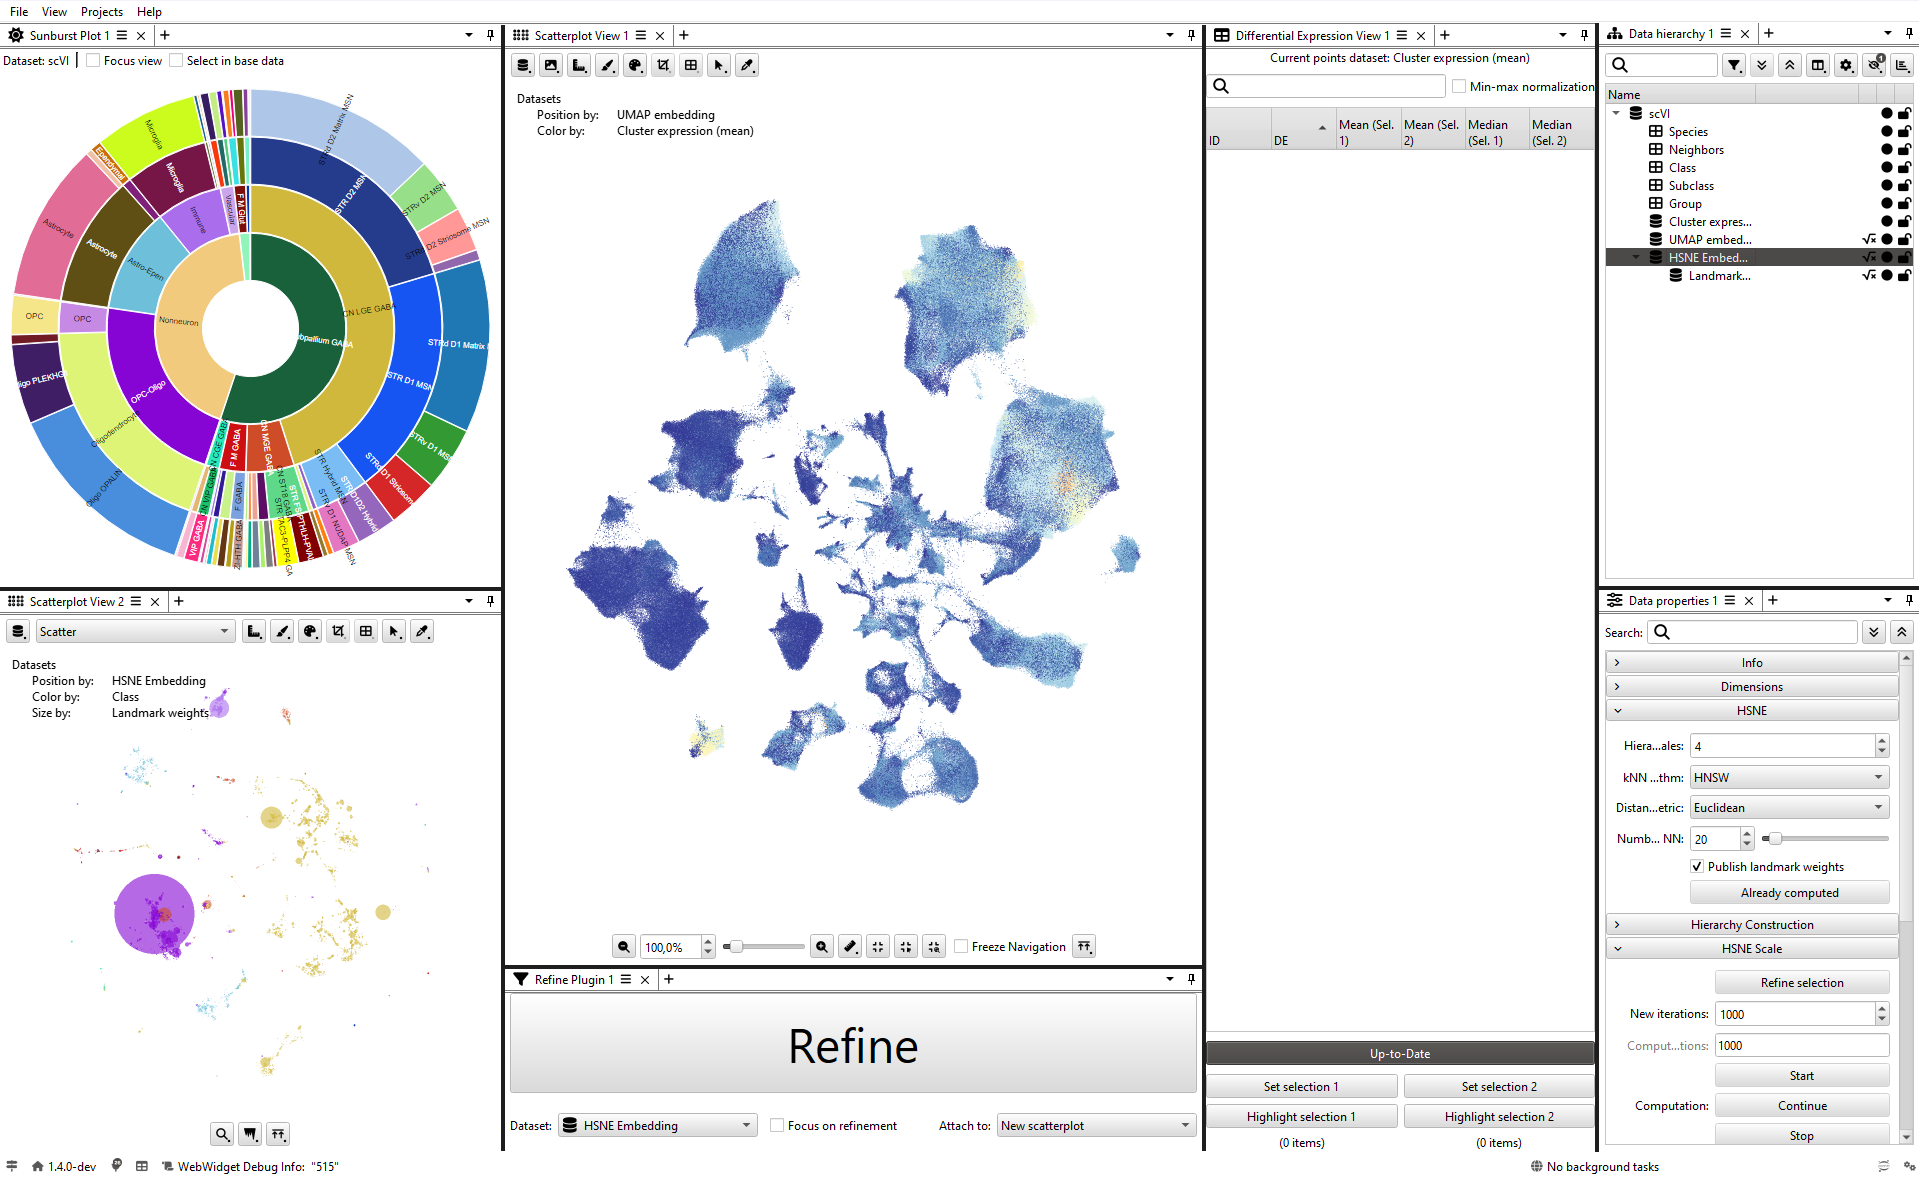
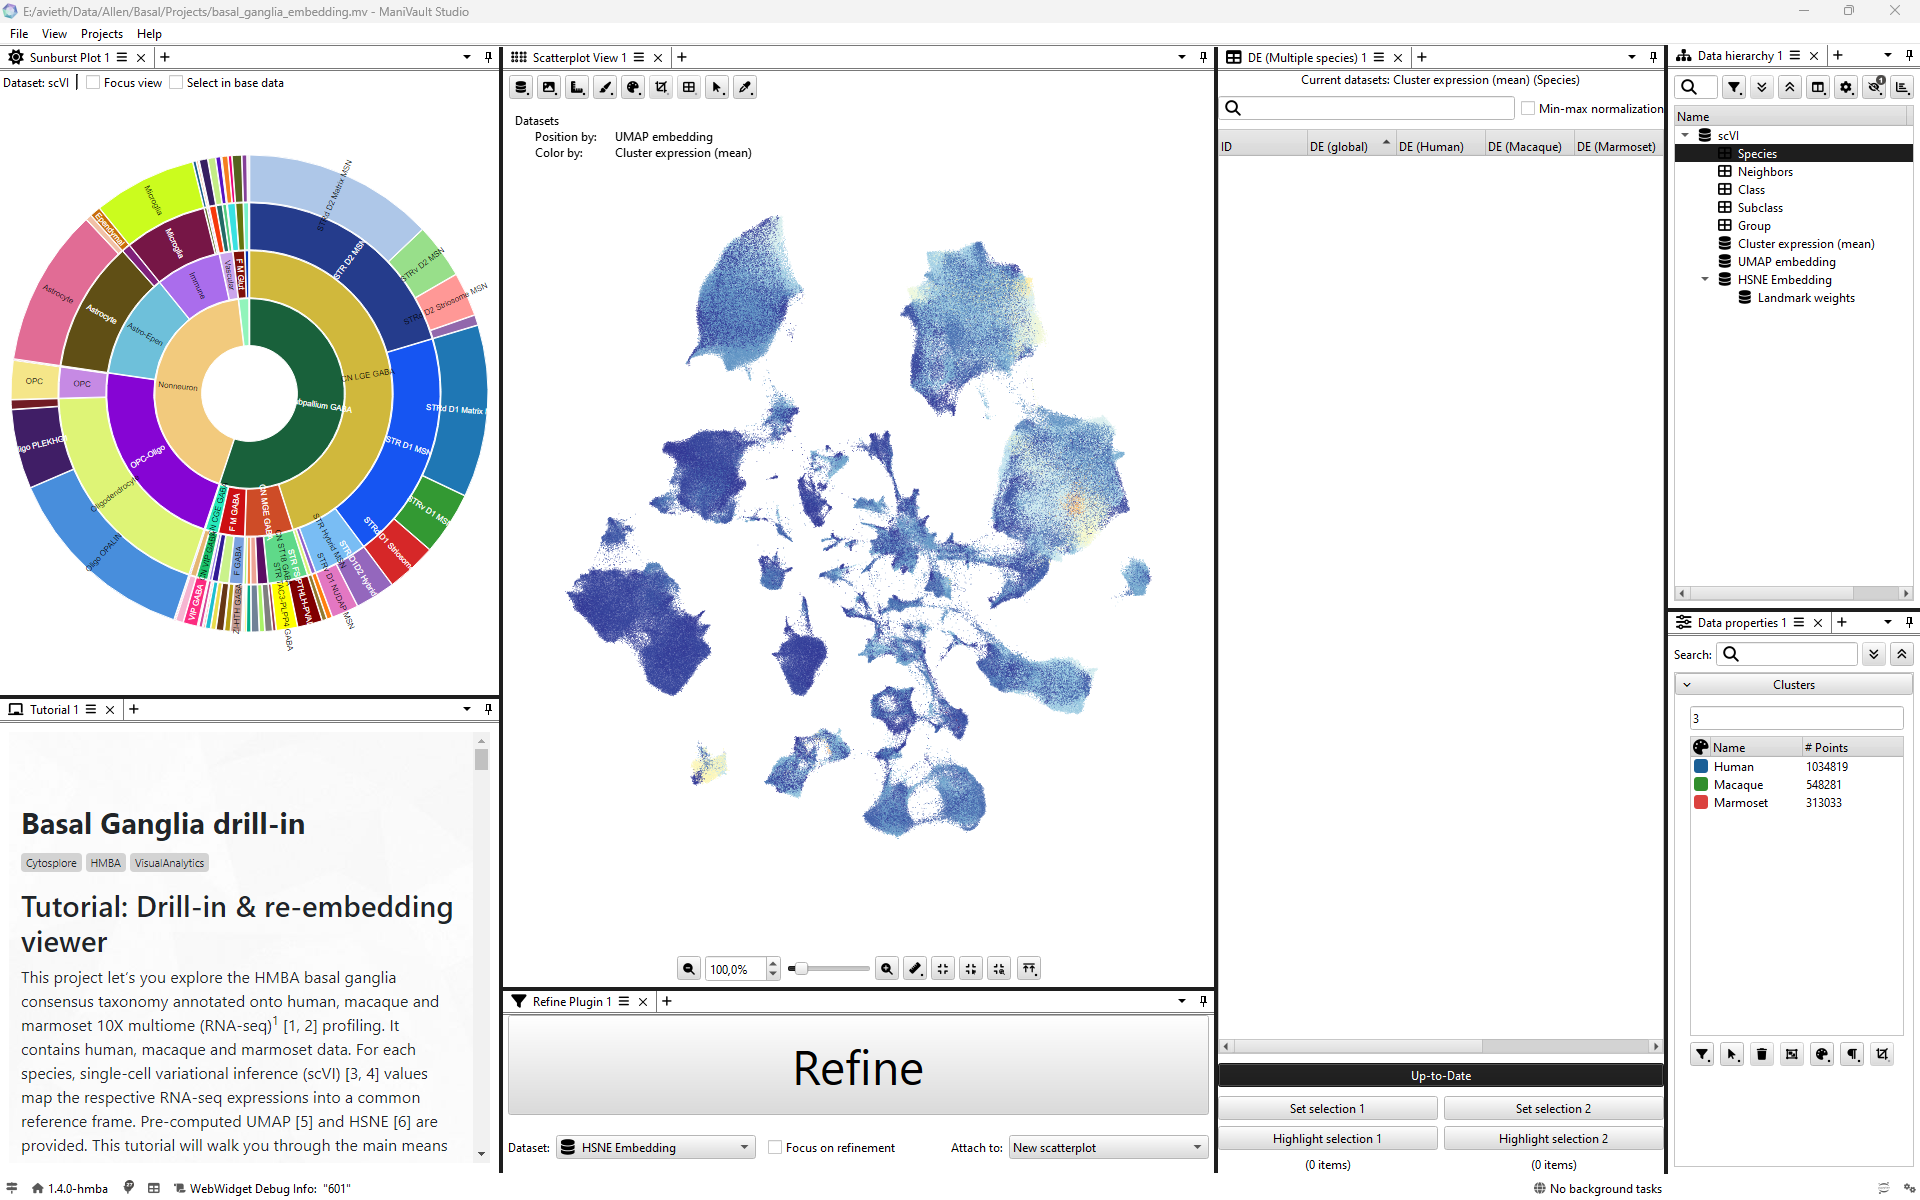
Add and update gifs and screenshots

diff --git a/tutorials/Drill_in_demo_turotial.md b/tutorials/Drill_in_demo_turotial.md
@@ -7,9 +7,8 @@ This project let's you explore the [HMBA basal ganglia consensus taxonomy](https
 1. A [`sunburst`](https://en.wikipedia.org/wiki/Pie_chart#Ring) plot showing the hierarchical cell type taxonomy for categories that are consistent across species: `Neighbors`, `Class`, `Subclass`, `Group`
 2. A pre-computed `UMAP embedding` of the `scVI` values from all three species, recolored by `Cluster expressions (mean)`
 3. A table of differential expressions for all genes computed on `Cluster expressions (mean)` (empty at the start)
-4. The hierarchy of all data in this project, see [below: _Data hierarchy_
-](#data-hierarchy)
-5. A pre-computed `HSNE embedding` of the `scVI` values from all three species, recolored by `Class` colors
+4. The hierarchy of all data in this project, see [below: _Data hierarchy_](#data-hierarchy)
+5. This very tutorial, which you can also detach into a stand-alone window
 6. A large button that will refine a selection in the `HSNE embedding`
 7. An information panel for the currently selected dataset or analysis in the data hierarchy
 
@@ -51,6 +50,28 @@ This project let's you explore the [HMBA basal ganglia consensus taxonomy](https
     </p>
 </div>
 
+### Handling the layout
+
+<details closed>
+
+<summary>Detaching, and re-attaching views (click me to expand)</summary>
+You can drag each view out of the main window.
+<p align="middle">
+    <img src="./assets/Detach.gif" align="middle" width="100%" />
+</p>
+
+</details>
+
+
+<details closed>
+
+<summary>HSNE top level embedding (click me to expand)</summary>
+A pre-computed `HSNE embedding` of the `scVI` values from all three species, recolored by `Class` colors.
+<p align="middle">
+    <img src="./assets/HSNE-plot.gif" align="middle" width="100%" />
+</p>
+
+</details>
 
 ## Interactions
 The main goal of this viewer is to provide several means of interactively exploration and "zooming into the data".
